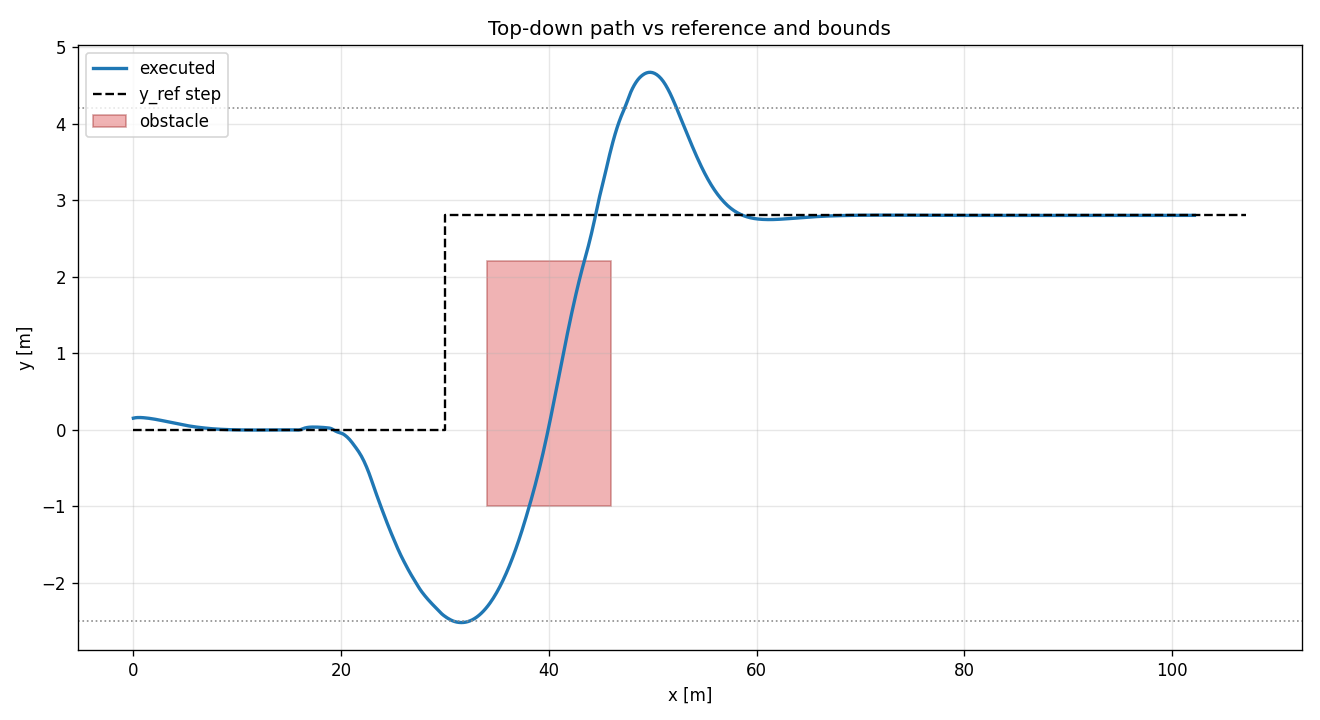
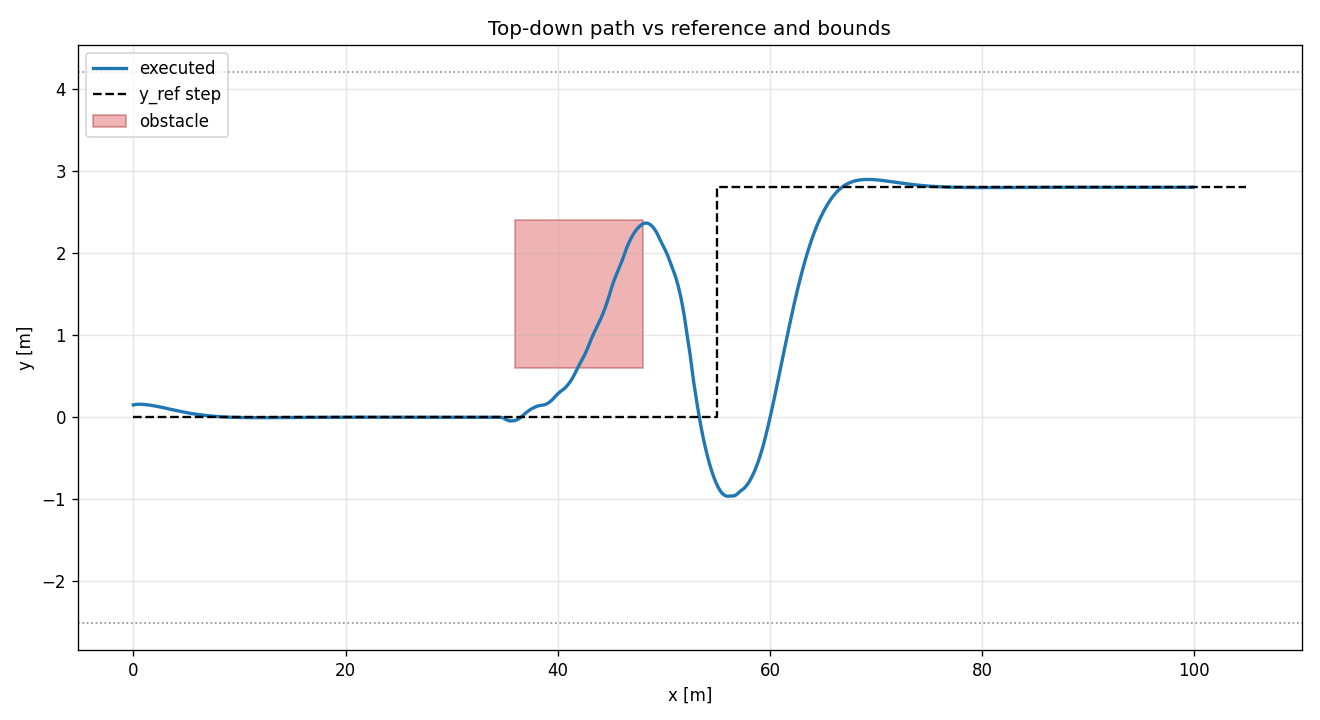
Tune obstacle MPC inflation and refresh step-ref path figures

diff --git a/examples/scripts/trajectory_optimization/demo_dynamic_bicycle_mpc_step_ref_obstacles.py b/examples/scripts/trajectory_optimization/demo_dynamic_bicycle_mpc_step_ref_obstacles.py
@@ -75,7 +75,7 @@ Y_CORRIDOR_LO = -2.5
 Y_CORRIDOR_HI = 4.2
 OBS_X = (36.0, 48.0)
 OBS_Y = (0.6, 2.4)
-OBS_INFLATE = 0.5
+OBS_INFLATE = 0.35
 
 MPC_HZ = 10.0
 SIM_HZ = 50.0